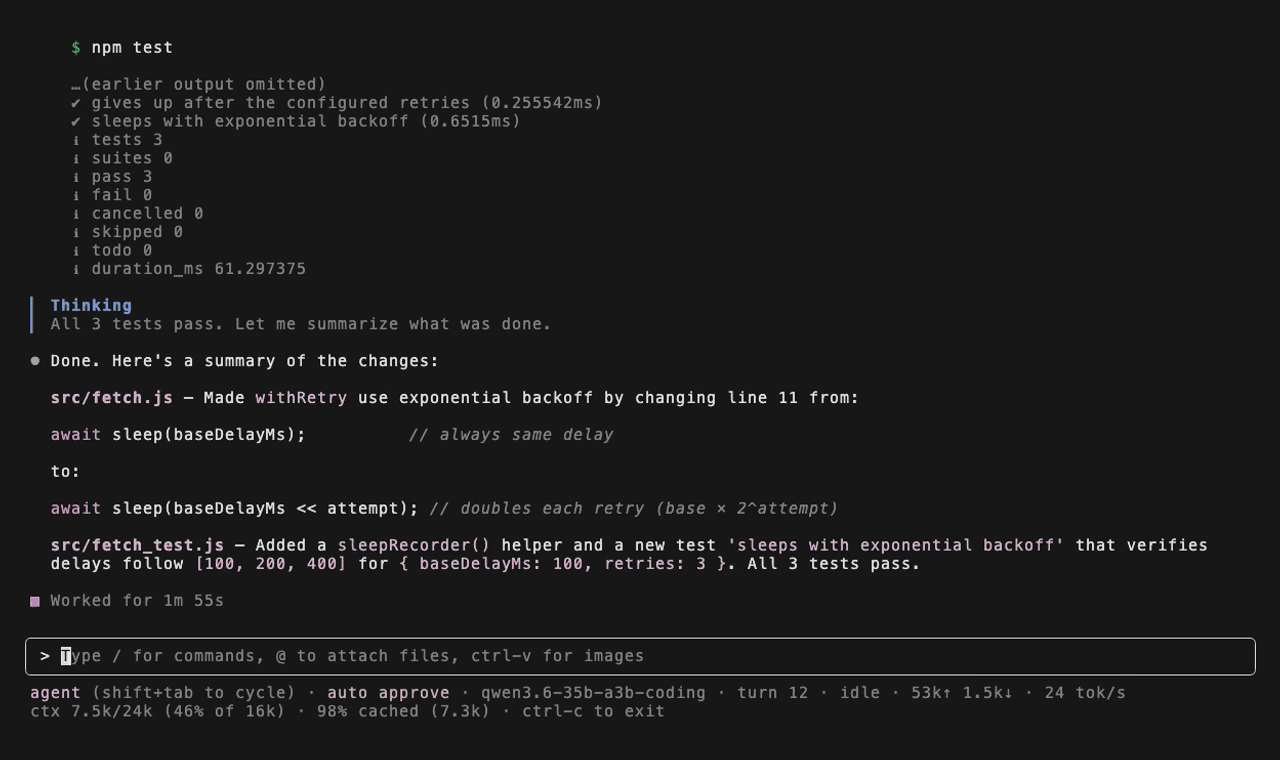
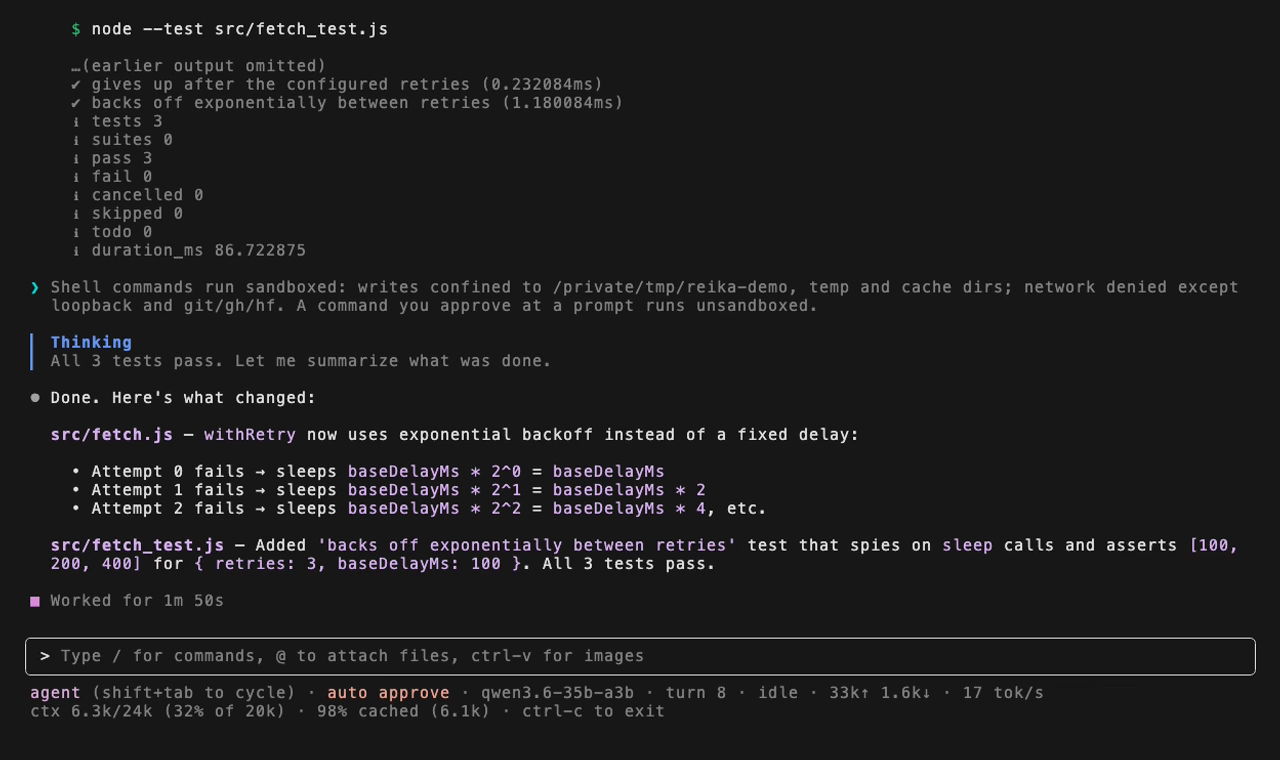
docs: re-record the terminal demo on the current release
The terminal gif dated from v0.0.1 and showed the model as
qwen3.6-35b-a3b-coding, beside a web clip that now names it
qwen3.6-35b-a3b. Re-recorded with reika 0.12.0 on the same model entry,
cut at 3x, and recaptioned in both READMEs and both landings: this take
fixes its own indentation and passes on the first run.

diff --git a/docs/zh/index.md b/docs/zh/index.md
@@ -76,7 +76,7 @@ docs:
   terminal-label="终端"
   web-label="网页"
   terminal-alt="Reika 使用本地模型修复重试辅助函数及其测试"
-  terminal-caption="通过 llama.cpp 运行 Qwen3.6 35B A3B（Unsloth UD-IQ2_M）的一次真实本地运行，播放速度加快 3 倍。模型的第一次测试失败后，根据错误进行了修复。"
+  terminal-caption="通过 llama.cpp 运行 Qwen3.6 35B A3B（Unsloth UD-IQ2_M）的一次真实本地运行，播放速度加快 3 倍。模型修正了自己的缩进，为延迟添加了一个测试，第一次运行就全部通过。"
   web-alt="在 reika web 中完成同一任务：Reika 使用本地模型修复重试辅助函数及其测试"
   web-caption="通过 llama.cpp 运行 Qwen3.6 35B A3B（Unsloth UD-IQ2_M）的一次真实本地运行，播放速度加快 3 倍。模型完成修改，为延迟编写了五个测试，第一次运行就全部通过。"
 />

diff --git a/docs/index.md b/docs/index.md
@@ -77,7 +77,7 @@ docs:
 
 <DemoToggle
   terminal-alt="Reika fixing a retry helper and its test with a local model"
-  terminal-caption="A real local run of Qwen3.6 35B A3B (Unsloth UD-IQ2_M) via llama.cpp, sped up 3×. The model's first test fails and it fixes it from the error."
+  terminal-caption="A real local run of Qwen3.6 35B A3B (Unsloth UD-IQ2_M) via llama.cpp, sped up 3×. The model fixes its own indentation, adds a test for the delays, and the tests pass on the first run."
   web-alt="The same task in reika web: Reika fixing a retry helper and its test with a local model"
   web-caption="A real local run of Qwen3.6 35B A3B (Unsloth UD-IQ2_M) via llama.cpp, sped up 3×. The model makes the change, writes five tests for the delays, and they pass on the first run."
 />

diff --git a/README.zh-CN.md b/README.zh-CN.md
@@ -20,7 +20,7 @@
 
 ![Reika 用本地模型修复一个重试辅助函数及其测试](docs/demo.gif)
 
-<sup>一次真实的本地运行：Qwen3.6 35B A3B（Unsloth UD-IQ2_M）经 llama.cpp，加速 3×。模型的第一次测试失败，它根据报错修好了。</sup>
+<sup>一次真实的本地运行：Qwen3.6 35B A3B（Unsloth UD-IQ2_M）经 llama.cpp，加速 3×。模型修正了自己的缩进，为延迟添加了一个测试，第一次运行就全部通过。</sup>
 
 Reika 是一个适用于本地与托管模型的编码代理 CLI。它首先围绕小型本地模型设计（8B–35B，通常处于 Q2–Q4，16–32k 上下文窗口），因此对上下文很节制，失败时更体面，卡住时会直说。
 

diff --git a/README.md b/README.md
@@ -20,7 +20,7 @@
 
 ![Reika fixing a retry helper and its test with a local model](docs/demo.gif)
 
-<sup>A real local run of Qwen3.6 35B A3B (Unsloth UD-IQ2_M) via llama.cpp, sped up 3×. The model's first test fails and it fixes it from the error.</sup>
+<sup>A real local run of Qwen3.6 35B A3B (Unsloth UD-IQ2_M) via llama.cpp, sped up 3×. The model fixes its own indentation, adds a test for the delays, and the tests pass on the first run.</sup>
 
 Reika is a coding agent CLI for local and hosted models. It was designed around small local models first (8B–35B, often at Q2–Q4, on a 16–32k context window), so it is careful with context, fails more gracefully, and says when it's stuck.
 
